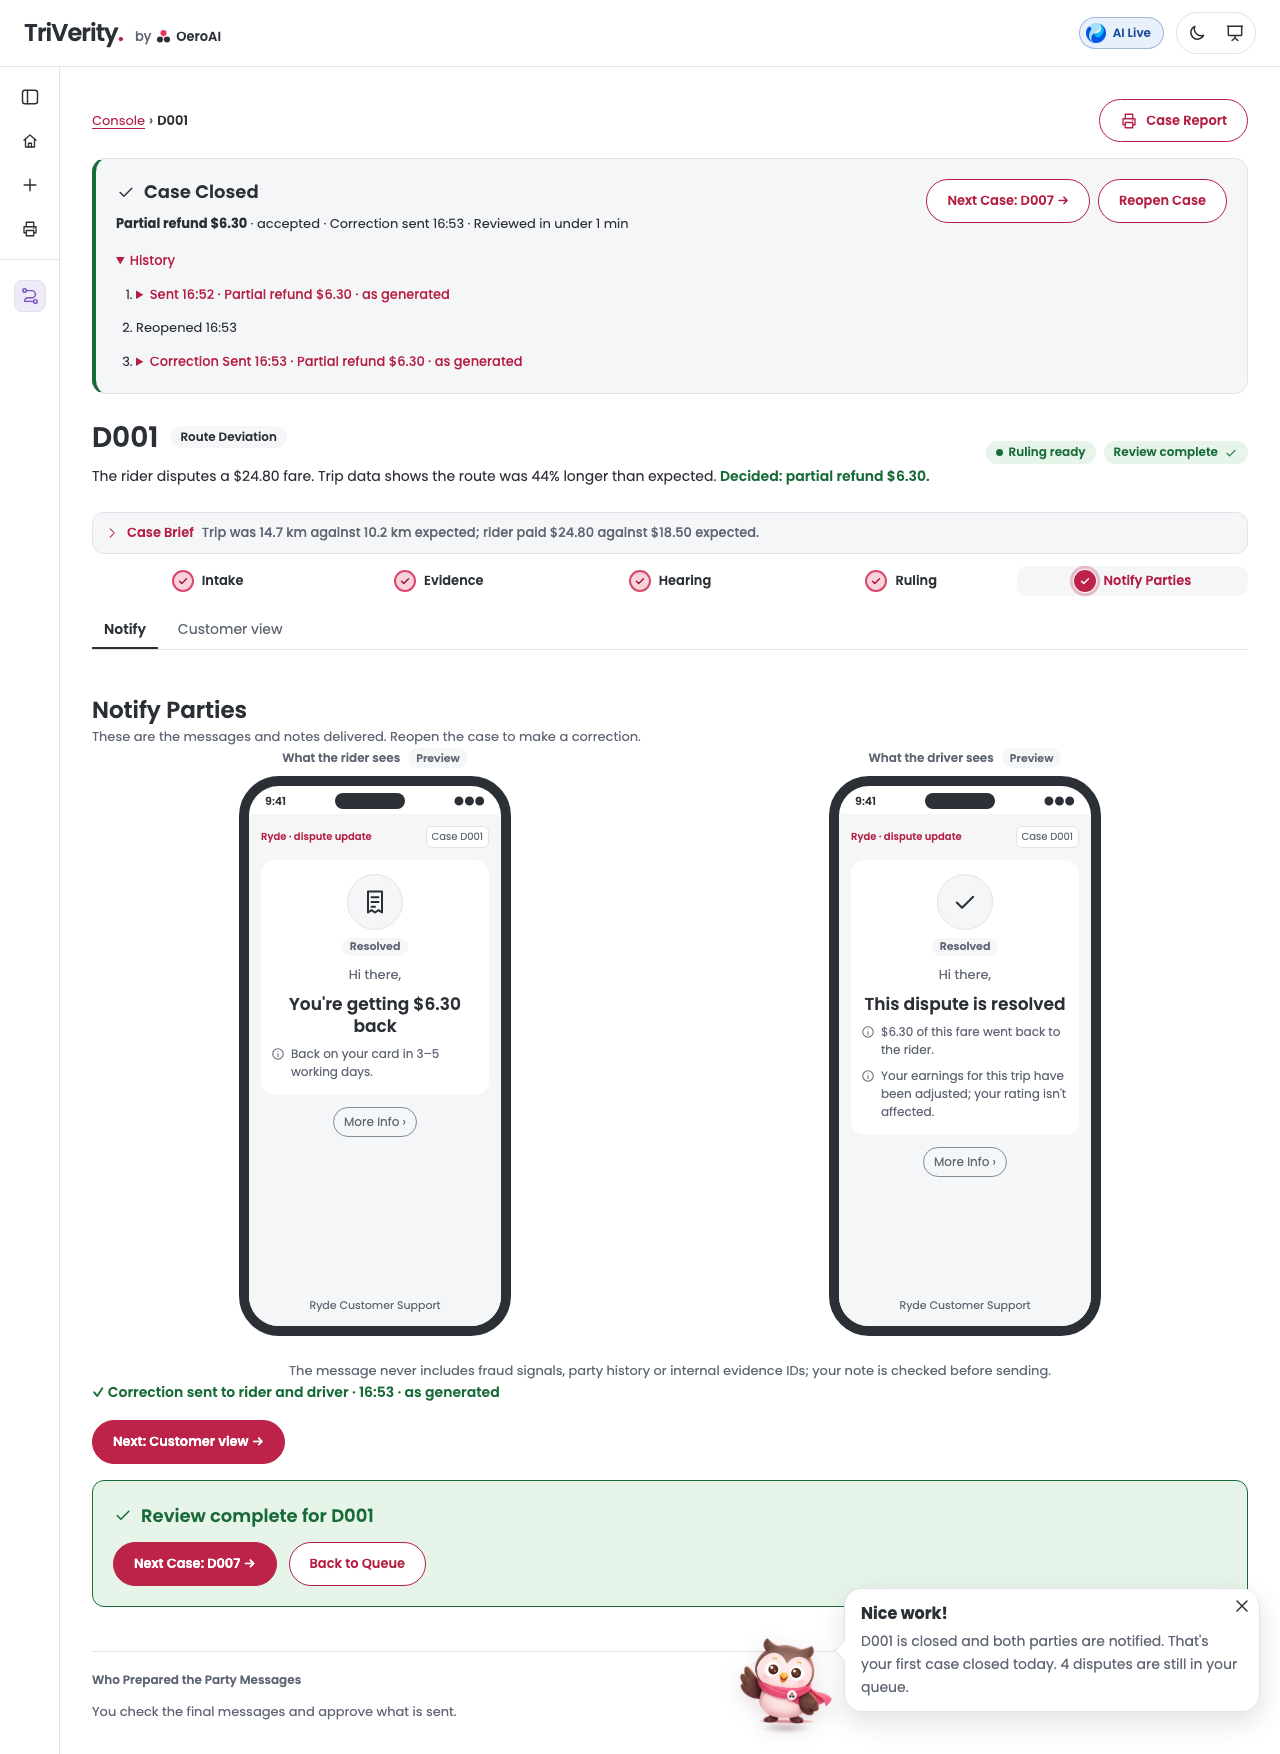
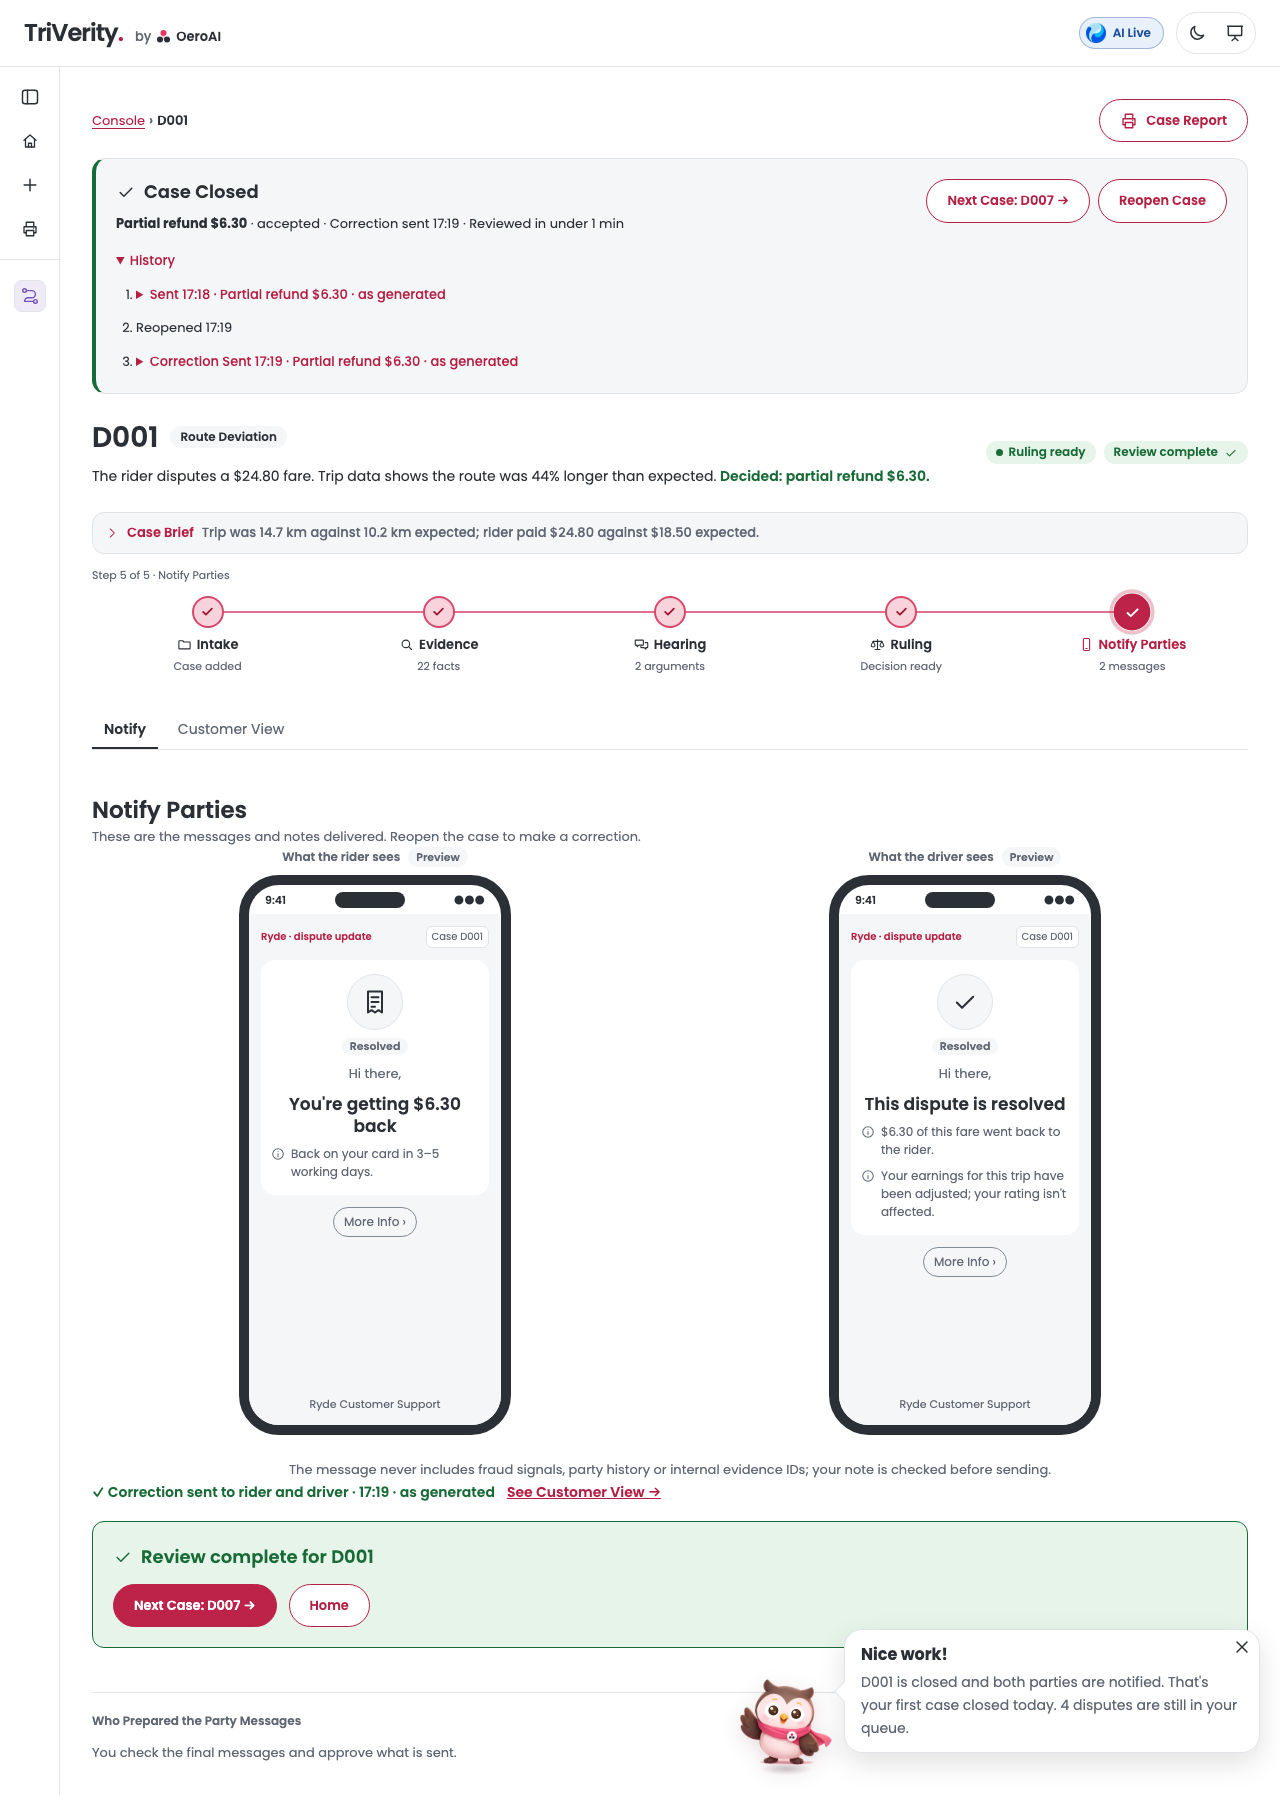
Console: full stepper on every step, Home, and a quieter Customer View
The stepper keeps its full look on every step, with its progress text, instead of shrinking past Intake. The Case Brief still folds to one line. Back to Queue is now Home everywhere. After sending, Customer View is a quiet link on the Sent line, so Next Case is the only filled button there. Retakes the affected README screenshots.

diff --git a/frontend/src/styles.css b/frontend/src/styles.css
@@ -1750,7 +1750,7 @@ path.results-pop { fill: none; stroke: var(--accent-text); stroke-width: 2.5; st
 .case-brief-claim { overflow: hidden; white-space: nowrap; text-overflow: ellipsis; }
 .case-brief-row ul { padding-left: var(--space-4); }
 .case-brief-note { color: var(--muted); font-size: 12px; }
-/* Past Intake the brief is one line and the stepper one row, so the step's content comes first. */
+/* Past Intake the brief is one line, so the step's content comes first. */
 .case-brief.is-compact { display: block; margin-bottom: var(--space-3); padding: var(--space-2) var(--space-3); }
 .case-brief.is-compact > summary { display: flex; align-items: center; gap: var(--space-2); min-height: 24px; cursor: pointer; list-style: none; }
 .case-brief.is-compact > summary::-webkit-details-marker { display: none; }
@@ -1760,20 +1760,6 @@ path.results-pop { fill: none; stroke: var(--accent-text); stroke-width: 2.5; st
 .case-brief.is-compact[open] .case-brief-chevron { rotate: 90deg; }
 .case-brief.is-compact[open] .case-brief-line { display: none; }
 .case-brief.is-compact[open] dl { margin-top: var(--space-2); }
-.workflow-bar.is-compact { margin-bottom: var(--space-4); }
-.workflow-bar.is-compact .stepper-position { position: absolute; width: 1px; height: 1px; overflow: hidden; clip-path: inset(50%); white-space: nowrap; }
-.workflow-bar.is-compact .stepper-track, .workflow-bar.is-compact .tab-progress, .workflow-bar.is-compact .step-next, .workflow-bar.is-compact .step-icon { display: none; }
-.workflow-bar.is-compact .stepper-wrap { --circle: 22px; }
-.workflow-bar.is-compact .step { --circle: 22px; flex-direction: row; justify-content: center; gap: var(--space-2); padding: var(--space-1); }
-.workflow-bar.is-compact .step-circle { font-size: 11px; }
-.workflow-bar.is-compact .step-circle .icon { width: 12px; height: 12px; }
-.workflow-bar.is-compact .step-name { margin-top: 0; }
-.workflow-bar.is-compact .step.current .step-circle { transform: none; }
-.workflow-bar.is-compact .step.current { background: var(--surface); }
-@media (max-width: 760px) {
-  .workflow-bar.is-compact .step { flex-direction: column; gap: 2px; }
-  .workflow-bar.is-compact .step-name { flex-direction: row; }
-}
 /* The first-visit guide: the owl's step on the queue, a plain note on a case. */
 .owl-guide { margin: var(--space-2) 0 0; padding-top: var(--space-2); border-top: 1px solid var(--border); color: var(--text); font-size: 13px; }
 .owl-guide .text-button { margin-left: var(--space-1); font-size: 13px; }
@@ -2372,6 +2358,7 @@ details.ruling-condition-group[open] > summary::before { transform: rotate(90deg
 .mascot-sleep-eye { fill: none; stroke: #3d1c10; stroke-width: 11; stroke-linecap: round; }
 .mascot-zzz { position: absolute; left: 72%; top: 0; pointer-events: none; color: var(--muted); font-weight: 700; font-size: 15px; line-height: 1; }
 .mascot-zzz i { position: absolute; font-style: normal; opacity: 0; }
+.notify-see-customer { margin-left: var(--space-3); font-weight: 600; }
 .mascot-bubble { position: relative; max-width: 460px; padding: var(--space-3) var(--space-4); border: 1px solid var(--border); border-radius: 18px; background: var(--bg);
   box-shadow: 0 6px 18px rgb(0 0 0 / .06); }
 .mascot-bubble::before { content: ""; position: absolute; top: 50%; left: -8px; width: 14px; height: 14px; margin-top: -7px; border-left: 1px solid var(--border); border-bottom: 1px solid var(--border);

diff --git a/frontend/src/App.tsx b/frontend/src/App.tsx
@@ -581,7 +581,7 @@ export default function App({ active, sampleId, navigation = 0, presentation, on
           <div className="sidebar-head">
             <SidebarToggle open={sidebarOpen} onToggle={toggleSidebar} />
             <a className={`icon-button home-button${onHome ? " is-current" : ""}`} href={HOME_HASH} aria-current={onHome ? "page" : undefined}
-              aria-label={onHome ? "Queue" : "Back to queue"} title={onHome ? "Queue" : "Back to queue"}><Icon name="home" /></a>
+              aria-label="Home" title="Home"><Icon name="home" /></a>
             {sidebarOpen
               ? <div className="sidebar-actions">
                   <FilterMenu value={filter} onChange={changeFilter} />
@@ -646,7 +646,7 @@ export default function App({ active, sampleId, navigation = 0, presentation, on
             {reviewId && <ClosedCase disputeId={selected.dispute_id} sent={sent} latest={latestSent}
               events={sentRecords().events(reviewId)} earlier={sentRecords().earlier(selected.dispute_id, reviewId)}
               appealWaiting={waitingIds.has(selected.dispute_id)} openedAt={reviews().openedAt(reviewId)}
-              nextLabel={following?.label ?? "Back to queue"} onNext={goToFollowing} nextPrimary={activeTab !== "notify" || !following} onReopen={reopenCase} />}
+              nextLabel={following?.label ?? "Home"} onNext={goToFollowing} nextPrimary={activeTab !== "notify" || !following} onReopen={reopenCase} />}
             <CaseHeader dispute={selected} resolution={resolution} busy={resolving === selected.dispute_id} streaming={streaming} progress={progress}
               final={resolution ? headerFinalOutcome(resolution, selected, decision.saved, latestSent) : null} />
             <CaseBrief key={selected.dispute_id} dispute={selected} resolution={resolution} showProposal={reviewed.has("ruling")} aiOff={aiMode === "offline"} compact={compactHead} />
@@ -658,7 +658,7 @@ export default function App({ active, sampleId, navigation = 0, presentation, on
               </div>
             </div>}
             <WorkflowTabs active={activeTab} resolution={resolution} busy={resolving === selected.dispute_id}
-              closed={closed} auto={autoClosed} held={!!decision.hold} decisionRecorded={!!decision.saved} compact={compactHead}
+              closed={closed} auto={autoClosed} held={!!decision.hold} decisionRecorded={!!decision.saved}
               unlocking={completion?.id === selected.dispute_id}
               liveSteps={resolving === selected.dispute_id ? liveSteps : undefined} reviewed={reviewed} onChange={changeTab}
               render={tab => resolving === selected.dispute_id || completion?.id === selected.dispute_id

diff --git a/frontend/src/PartyPreview.tsx b/frontend/src/PartyPreview.tsx
@@ -127,7 +127,7 @@ export function PartyPreview({ resolution, dispute, reviewKey, saved, unavailabl
             event.preventDefault();
             const target = !sent ? "notify" : event.key === "Home" ? "notify" : event.key === "End" ? "customer" : index === 0 ? "customer" : "notify";
             setView(target); document.getElementById(`${id}-${target}-tab`)?.focus();
-          }}>{item === "notify" ? "Notify" : "Customer view"}</button>)}
+          }}>{item === "notify" ? "Notify" : "Customer View"}</button>)}
       </div>
       <div id={`${id}-view-panel`} role="tabpanel" aria-labelledby={`${id}-${view}-tab`}>
       <h2 id={`${id}-heading`}>{view === "customer" ? "Customer View" : "Notify Parties"}</h2>
@@ -184,8 +184,9 @@ export function PartyPreview({ resolution, dispute, reviewKey, saved, unavailabl
       </div>
       {view === "notify" && <p className="small muted notify-privacy">{PRIVACY_NOTE}</p>}
       {view === "notify" && (sent ? <div className="notify-done">
-        <p className="notify-sent">{sentText(sent)}</p>
-        <div><button type="button" className="run-button" onClick={() => { setView("customer"); document.getElementById(`${id}-customer-tab`)?.focus(); }}>Next: Customer view →</button></div>
+        <p className="notify-sent">{sentText(sent)}
+          {/* A look at what was sent, not a step: the only filled button below is the next case. */}
+          <button type="button" className="text-button notify-see-customer" onClick={() => { setView("customer"); document.getElementById(`${id}-customer-tab`)?.focus(); }}>See Customer View →</button></p>
         {waitingAppeals.map(appeal => <div className="notify-appeal" key={appeal.id} role="status">
           <p><Icon name="warning" /><strong>{appealSummary(appeal)}</strong> · {appeal.id}</p>
           <p className="small">“{appeal.reason}”</p>
@@ -195,7 +196,7 @@ export function PartyPreview({ resolution, dispute, reviewKey, saved, unavailabl
           <p className="review-complete-title"><Icon name="check" />{closingTitle(dispute.dispute_id, progress)}</p>
           <div className="review-complete-actions">
             {next && <button type="button" className="run-button" onClick={onNext}>{nextLabel ?? `Next Case: ${next} →`}</button>}
-            <button type="button" className="secondary-button" onClick={onBack}>Back to Queue</button>
+            <button type="button" className="secondary-button" onClick={onBack}>Home</button>
           </div>
         </section>
       </div> : <div className="notify-actions">

diff --git a/frontend/src/WorkflowTabs.tsx b/frontend/src/WorkflowTabs.tsx
@@ -13,7 +13,7 @@ const STEP_ICONS: Record<WorkflowTab, string> = {
 
 const prefersReducedMotion = () => typeof window !== "undefined" && !!window.matchMedia?.("(prefers-reduced-motion: reduce)").matches;
 
-export function WorkflowTabs({ active, resolution, busy, liveSteps, reviewed, auto = false, held = false, decisionRecorded = false, closed = false, unlocking = false, compact = false, onChange, render }: {
+export function WorkflowTabs({ active, resolution, busy, liveSteps, reviewed, auto = false, held = false, decisionRecorded = false, closed = false, unlocking = false, onChange, render }: {
   active: WorkflowTab;
   resolution?: Resolution;
   busy: boolean;
@@ -29,8 +29,6 @@ export function WorkflowTabs({ active, resolution, busy, liveSteps, reviewed, au
   unlocking?: boolean;
   decisionRecorded?: boolean;
   closed?: boolean;
-  /** Past Intake: one slim row, so the step's content comes first. */
-  compact?: boolean;
   onChange: (tab: WorkflowTab) => void;
   render: (tab: WorkflowTab) => ReactNode;
 }) {
@@ -98,7 +96,7 @@ export function WorkflowTabs({ active, resolution, busy, liveSteps, reviewed, au
     refs.current[next]?.focus();
   }
   return <>
-    <div className={`workflow-bar${compact ? " is-compact" : ""}`}>
+    <div className="workflow-bar">
       <p className="stepper-position" aria-live="polite">{positionText(activeIndex, WORKFLOW_TABS.length, WORKFLOW_TABS[activeIndex].label)}</p>
       <div className="stepper-wrap">
       {/* The pink line: position only, from step 1 to the current step. */}

diff --git a/frontend/src/customerCopy.ts b/frontend/src/customerCopy.ts
@@ -52,7 +52,7 @@ export const CUSTOMER_COPY = {
   found: "What We Found", nextSteps: "What Happens Now",
   footer: "Ryde Customer Support", message: "Your Case Update",
   rate: "Rate Our Support", appeal: "Appeal Case", appealWindow: PROMISES.appealWindow,
-  locked: (party: string) => `Available to the ${party} after sending. Try them in the next step: Customer view.`,
+  locked: (party: string) => `Available to the ${party} after sending. Try them in the next step: Customer View.`,
   feedback: {
     title: "How Did We Handle Your Case?", simulatedTag: "(simulated)", ratings: ["Very poor", "Poor", "Okay", "Good", "Great"],
     group: "Support rating", comment: "Anything else? · optional",

diff --git a/frontend/src/firstVisitGuide.ts b/frontend/src/firstVisitGuide.ts
@@ -35,7 +35,7 @@ export function caseGuideShows({ done, hasResult, canDecide, decided }: {
   return !done && hasResult && canDecide && !decided;
 }
 
-/** Past Intake the reviewer knows the case: the brief and the stepper shrink, so the step's content comes first. */
+/** Past Intake the reviewer knows the case: the brief folds to one line, so the step's content comes first. */
 export function compactCaseHead(tab: string, running: boolean): boolean {
   return tab !== "intake" && !running;
 }

diff --git a/docs/screenshots/README.md b/docs/screenshots/README.md
@@ -9,20 +9,20 @@ against live Hy3. The earlier captures remain in this folder's git history and i
 | Landing | [01-landing.png](01-landing.png) | Landing page, light theme, 1280 × 900 | 327,560 |
 | Reviewer home | [02-reviewer-home.png](02-reviewer-home.png) | Queue straight after AI Review on nine cases, live: four need a person, five closed themselves, and one case's fallback text is labelled | 130,031 |
 | Live progress | [03-live-progress.png](03-live-progress.png) | D001 during a live Hy3 run, about 10 s in | 108,185 |
-| Evidence | [04-evidence.png](04-evidence.png) | D001, reopened by a reviewer, live Hy3 run | 184,191 |
-| Hearing | [05-hearing.png](05-hearing.png) | D001, reopened by a reviewer, live Hy3 run | 329,783 |
-| Ruling | [06-ruling.png](06-ruling.png) | D001 reopened by a reviewer, with accept and override controls | 251,639 |
-| Notify | [07-notify.png](07-notify.png) | D007, live Hy3 run; a reviewer decided $6.90, before sending | 166,320 |
-| Closed case | [08-closed-case.png](08-closed-case.png) | D001 after a correction, with the sent history open | 220,992 |
+| Evidence | [04-evidence.png](04-evidence.png) | D001, reopened by a reviewer, live Hy3 run | 194,484 |
+| Hearing | [05-hearing.png](05-hearing.png) | D001, reopened by a reviewer, live Hy3 run | 349,725 |
+| Ruling | [06-ruling.png](06-ruling.png) | D001 reopened by a reviewer, with accept and override controls | 260,751 |
+| Notify | [07-notify.png](07-notify.png) | D007, live Hy3 run; a reviewer decided $6.90, before sending | 179,010 |
+| Closed case | [08-closed-case.png](08-closed-case.png) | D001 after a correction, with the sent history open | 227,042 |
 | Mobile | [09-mobile.png](09-mobile.png) | Reviewer home, 375 px wide | 75,573 |
 | Dark | [10-dark.png](10-dark.png) | Reviewer home, dark theme, 1280 × 800 | 97,021 |
-| Auto-resolved | [11-auto-resolved.png](11-auto-resolved.png) | D001 closed by itself under the policy, right after its run | 206,994 |
-| Rules for This Case | [12-rules-for-this-case.png](12-rules-for-this-case.png) | D008 escalated for bad-faith risk, with its reasons and the rules panel, 1900 px wide | 256,520 |
+| Auto-resolved | [11-auto-resolved.png](11-auto-resolved.png) | D001 closed by itself under the policy, right after its run | 204,696 |
+| Rules for This Case | [12-rules-for-this-case.png](12-rules-for-this-case.png) | D008 escalated for bad-faith risk, with its reasons and the rules panel, 1900 px wide | 251,539 |
 | Case report | [13-case-report.png](13-case-report.png) | The D008 report on screen; the browser saves this page as a PDF | 540,766 |
 | AI Review confirmation | [14-ai-review-confirm.png](14-ai-review-confirm.png) | The message shown before AI Review runs nine cases | 125,034 |
 | First-visit guide | [15-first-visit-guide.png](15-first-visit-guide.png) | The owl giving step 1 of 3 on an untouched queue | 117,600 |
 
-Total curated image size: **3,138,209 bytes**. Every image is below 600 KB.
+Total curated image size: **3,189,017 bytes**. Every image is below 600 KB.
 
 The live-progress view is a still taken during the run. The reviewer decisions in these views are simulated
 in the prototype, and no real message or payment was sent. D001's first run in these captures was repeated after a step

diff --git a/README.md b/README.md
@@ -54,8 +54,8 @@ it makes the console easier for a real reviewer to use. The demo video was recor
   the approximate AI cost and a warning that routine cases close and notify the rider and driver.
 - **A measured result:** after a run, [the queue says how many cases ran, how long each took](docs/screenshots/02-reviewer-home.png)
   and how many need a person. The time comes from the agents' own log, so a saved sample reports its real run.
-- **The answer first:** past Intake, the brief and stepper shrink to one line each, so the verdict appears
-  [without scrolling](docs/screenshots/06-ruling.png) on a laptop screen. The brief opens with a click.
+- **The answer first:** past Intake, the brief folds to one line, so the verdict sits
+  [higher on the page](docs/screenshots/06-ruling.png). It opens with a click.
 - **A plainer Ruling:** [it opens with the outcome and why](docs/screenshots/06-ruling.png), then what the rules found
   and what would change it. When a person must decide, it says [why, and what each side asks for](docs/screenshots/12-rules-for-this-case.png).
 - **Bad-faith risk comes with its reasons:** an escalation lists every signal behind it, and says a signal isn't proof.
